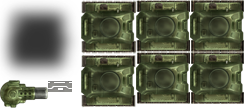
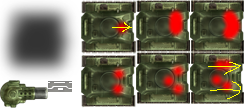
get rid of turret, making it work like asteroid

diff --git a/web/states/game/entity/RealEntity/PlayerTank.dart b/web/states/game/entity/RealEntity/PlayerTank.dart
@@ -1,7 +1,8 @@
 library player;
 
-import '../Tank.dart';
 import 'package:play_phaser/phaser.dart';
+
+import '../Tank.dart';
 
 class PlayerTank extends Tank {
 
@@ -10,6 +11,21 @@ class PlayerTank extends Tank {
 
   PlayerTank(num x, num y, var namet, Game game, Group bullets) : super(x, y, namet, game, bullets) {
     cursors = game.input.keyboard.createCursorKeys();
+  }
+
+  fire() {
+    if (game.time.now > nextFire && bullets.countDead() > 0) {
+      nextFire = game.time.now + fireRate;
+      var bullet = bullets.getFirstExists(false);
+      if (bullet != null){
+        bullet.reset(tank.x, tank.y);
+      
+        bullet.rotation = tank.rotation;
+      //game.physics.arcade.moveToPointer(bullet, bulletSpeed, game.input.activePointer, 500);
+        bullet.body.velocity = game.physics.arcade.velocityFromRotation(tank.rotation, bulletSpeed);
+      //bullet.rotation = game.physics.arcade.moveToPointer(bullet, 1000, game.input.activePointer, 500);
+      }
+    }
   }
 
   @override update() {
@@ -21,34 +37,20 @@ class PlayerTank extends Tank {
       tank.angle += 4;
     }
 
-    int currentSpeed = 0;
     if (cursors.up.isDown) {
-      // The speed we'll travel at
-      currentSpeed = 300;
+      num acceleration = 500;
+      tank.body.acceleration = game.physics.arcade.accelerationFromRotation(tank.rotation, acceleration);
+      //tank.body.velocity = game.physics.arcade.velocityFromRotation(tank.rotation, acceleration);
+    }else{
+      tank.body.acceleration.x=0;
+      tank.body.acceleration.y=0;
     }
-    if (cursors.down.isDown) {
-      // The speed we'll travel at
-      currentSpeed = -300;
-    }
-
-    if (currentSpeed > 0) {
-      game.physics.arcade.velocityFromRotation(tank.rotation, currentSpeed, tank.body.velocity);
-    }
-    // Position all the parts and align rotations
-    turret.rotation = game.physics.arcade.angleToPointer(turret);
     
-    if (game.input.activePointer.isDown) {
+    if ( game.input.keyboard.isDown(32) ) {//spacebar
       // Boom!
       fire();
     }
-  }
-
-  fire() {
-    if (game.time.now > nextFire && bullets.countDead() > 0) {
-      nextFire = game.time.now + fireRate;
-      var bullet = bullets.getFirstExists(false);
-      bullet.reset(turret.x, turret.y);
-      bullet.rotation = game.physics.arcade.moveToPointer(bullet, 1000, game.input.activePointer, 500);
-    }
+    
+    
   }
 }

diff --git a/web/states/game/entity/Tank.dart b/web/states/game/entity/Tank.dart
@@ -8,11 +8,12 @@ class Tank {
   Group bullets;
   num fireRate;
   num nextFire;
+  num bulletSpeed = 1000;
   bool alive;
+  
   Sprite shadow;
   Sprite tank;
-  Sprite turret;
-  
+
   Tank(num x, num y, var name, Game game, Group bullets) {
     this.game = game;
     this.health = 1;
@@ -25,49 +26,50 @@ class Tank {
     this.shadow = game.add.sprite(x, y, 'tank', 'shadow');
     //then the tank body
     this.tank = game.add.sprite(x, y, 'tank', 'tank1');
-    //and finally the turret
-    this.turret = game.add.sprite(x, y, 'tank', 'turret');
     
-    //now we have the spite in right Z-order, place then inthe right relative XY posisition
+    //set the right center of image
     this.shadow.anchor.set(0.5);
     this.tank.anchor.set(0.5);
-    this.turret.anchor.set(0.3, 0.5);
     
     //add the moving animation
     tank.animations.add('move', ['tank1', 'tank2', 'tank3', 'tank4', 'tank5', 'tank6'], 20, true);
-    
+
     tank.name = name;
-    
-    game.physics.enable(tank, Physics.ARCADE);
+
+    game.physics.enable(tank, Physics.ARCADE, false);
     tank.body.maxVelocity.setTo(400, 400);
     tank.body.drag.set(0);
     tank.body.collideWorldBounds = true;
     tank.body.immovable = false;
     tank.body.bounce.setTo(1, 1);
     
+    /*
+    game.physics.enable(player, Physics.ARCADE, false);
+    player.body.maxVelocity.setTo(400, 400);
+    player.body.drag.set(0);
+    player.body.collideWorldBounds = true;
+    player.body.immovable = false;
+    player.body.bounce.setTo(1, 1);
+    */
     //force correct display
     tank.bringToTop();
-    turret.bringToTop();
   }
-  
+
   damage() {
     this.health -= 1;
     if (this.health <= 0) {
       this.shadow.kill();
       this.tank.kill();
-      this.turret.kill();
       this.alive = false;
       return true;
     }
     return false;
   }
-  
+
   update() {
-    this.shadow.x = this.tank.x;
-    this.shadow.y = this.tank.y;
-    this.shadow.rotation = this.tank.rotation;
-    this.turret.x = this.tank.x;
-    this.turret.y = this.tank.y;
+    //this.shadow.x = this.tank.x;
+    //this.shadow.y = this.tank.y;
+    //this.shadow.rotation = this.tank.rotation; 
   }
 
 }

diff --git a/web/index.html b/web/index.html
@@ -5,18 +5,30 @@
 <title>Phaser examples</title>
 <style>
 body {
-margin: 0;
-padding: 0;
-background-color: #000000;
+  margin: 0;
+  padding: 0;
+  background-color: #000000;
+}
+.main-container {
+    float:left;
+    position:relative;
+    left:50%;
+}
+
+.fixer-container {
+    float:left;
+    position:relative;
+    left:-50%;
 }
 </style>
 </head>
-<body >
-<div id="phaser-example"></div>
-<!--<textarea id="sourcecode" style="margin-top: 16px; width: 1024px; height: 768px"></textarea>-->
-<select id="examples">
-</select>
-<script type="application/dart" src="main.dart"></script>
-<script type="text/javascript" src="packages/browser/dart.js"></script>
-</body>
+  <body >
+    <div class="main-container">
+      <div class="fixer-container">
+        <div class="floated" id="phaser-example"></div>
+      </div>
+    </div>
+    <script type="application/dart" src="main.dart"></script>
+    <script type="text/javascript" src="packages/browser/dart.js"></script>
+  </body>
 </html>

diff --git a/web/states/game/GameState.dart b/web/states/game/GameState.dart
@@ -26,11 +26,12 @@ class GameState extends State {
   int estimatedAliveBody = 0;
 
   void create() {
+   
     // Resize our game world to be a 2000 x 2000 square
-    game.world.setBounds(0, 0, 1024, 768);
+    game.world.setBounds(0, 0, game.width,  game.height);
 
     // Our tiled scrolling background
-    land = game.add.tileSprite(0, 0, 1024, 768, 'background');
+    land = game.add.tileSprite(0, 0,  game.width,  game.height, 'background');
     land.fixedToCamera = true;
 
     //be sure there is no gravity

diff --git a/web/main.dart b/web/main.dart
@@ -4,8 +4,11 @@
 //import "dart:html" as dom;
 import "package:play_phaser/phaser.dart";
 import 'states/game/GameState.dart';
+import 'dart:html';
 
 
 main() {
-  Game game = new Game(1024, 768, WEBGL, 'phaser-example', new GameState());
+  num x = window.innerHeight-100;
+  num y = window.innerWidth-100;
+  Game game = new Game(y, x, WEBGL, 'phaser-example', new GameState());
 }
